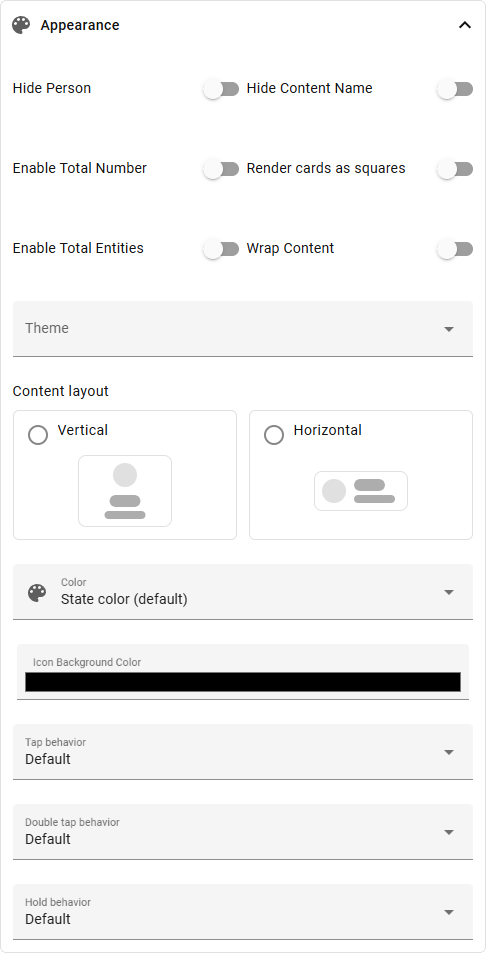
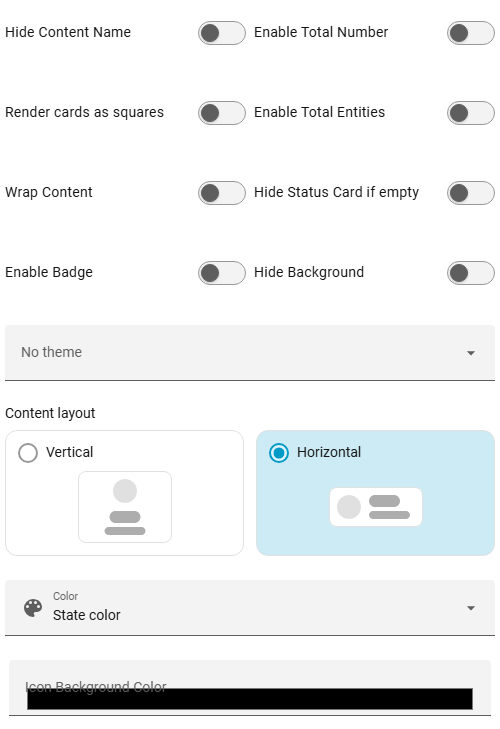
update docs

diff --git a/docs/docs/customization/entities.md b/docs/docs/customization/entities.md
@@ -1,0 +1,64 @@
+---
+title: Entities
+---
+
+# Entities
+
+Used to add single or multiple entities (extra entities) or to hide specific entities inside the status card.
+If you hide an entity using the 'Hide Entity' function, you will see some tabs where your entities are grouped, making it easier to find and hide them.
+
+- **Extra Entities:** - Choose the entities you want to add to status card from an entity picker
+- **Hide Entities:** - Choose which entity you want to hide by entity, ara or label
+
+<img src="https://raw.githubusercontent.com/xbourner/status-card/main/.github/img/entities.png" alt="Extra Entities Feature" width="50%">
+
+---
+
+## Editor Settings (per Extra Entity Customization)
+
+| Option | Description |
+|--------|-------------|
+| **Name** | Change display name |
+| **Icon** | Change icon |
+| **Color** | Change icon color |
+| **Invert State** | Invert state |
+| **State** | Force a specific state |
+| **State Content** | Change state content |
+| **Show Entity Picture** | Show entity picture |
+| **Activate State Color** | Enable color based on state |
+| **Tap / Hold / Double Tap** | Individual actions |
+| **Styles** | Custom CSS |
+
+### Editor Settings (per Extra Entity Customization)
+
+| Option | Description |
+|--------|-------------|
+| **Name** | Change display name |
+| **Icon** | Change icon |
+| **Color** | Change icon color |
+| **Invert State** | Invert state |
+| **State** | Force a specific state |
+| **State Content** | Change state content |
+| **Show Entity Picture** | Show entity picture |
+| **Activate State Color** | Enable color based on state |
+| **Tap / Hold / Double Tap** | Individual actions |
+| **Styles** | Custom CSS |
+
+<img src="https://raw.githubusercontent.com/xbourner/status-card/main/.github/img/entities-editor.png" alt="Extra Entities Editor" width="50%">
+
+---
+
+## YAML Example
+
+```yaml
+extra_entities:
+  - sun.sun
+hide_filter: entity
+hidden_entities:
+  - cover.test
+customization:
+  - type: sun.sun
+    state: "above_horizon"
+    show_entity_picture: true
+    state_content: "state"
+```

diff --git a/docs/docs/customization/global-appearance.md b/docs/docs/customization/global-appearance.md
@@ -7,15 +7,16 @@ title: Global Appearance
 Global settings that apply to all items.
 
 - **Hide Content Name:** Hide names from domains, device classes and persons
-- **List Display Mode:** Text list mode instead of controllers
+- **Enable Total Number:** Will show how many entities are turned on and how much in total you have. This wont change entities in Popup.
+- **Render cards as Square:** Square instead of round items
+- **Enable Total Entities:** Will show all entities no matter the state. This wilkl also change the Popup behaviour to show all entities.
+- **Wrap Content:** Multi-line mode instead of scrolling/swiping
+- **Hide Card If Empty:** Hide card completely when no entities are present
+- **Hide Background:** Hide background/border
 - **Theme:** HA theme for the card
-- **Wrap Content:** Multi-line mode instead of scrolling
-- **Square:** Square instead of round items
-- **No Background:** Hide background/border
-- **No Scroll:** Wrap mode instead of scrolling
-- **Hide Card If Empty:** Hide card when no entities are present
 - **Color:** Global icon color for all items
 - **Background Color:** Global background color (RGB/RGBA)
+
 
 <img src="https://raw.githubusercontent.com/xbourner/status-card/main/.github/img/appearance.png" alt="Global Appearance" width="35%">
 
@@ -28,20 +29,21 @@ Determines the orientation of items in the card. Default layout is vertical.
 
 <img src="https://raw.githubusercontent.com/xbourner/status-card/main/.github/img/content-layout.png" alt="Content Layout Feature" width="50%">
 
-
 ---
 
 ## YAML Example
 
 ```yaml
 type: custom:status-card
-content_layout: horizontal|vertical
 hide_content_name: false
-list_mode: false
+show_total_number: true
 square: true
+show_total_entities: true
 no_scroll: true
-no_background: false
 hide_card_if_empty: false
+no_background: false
+theme: waves
+content_layout: horizontal|vertical
 color: green
 background_color:
   - 255

diff --git a/docs/docs/customization/global-actions.md b/docs/docs/customization/global-actions.md
@@ -4,7 +4,7 @@ title: Global Actions
 
 # Global Actions
 
-Actions that apply to all domains and device classes (can be overridden per item).
+Actions that apply to all domains and device classes (can be overridden per item). Default is more info for persons and the custom popup for all other items.
 
 - **tap\_action:** Action on tap (default: more-info)
 - **hold\_action:** Action on hold (default: more-info)
@@ -16,7 +16,7 @@ Actions that apply to all domains and device classes (can be overridden per item
 
 ## Supported Actions
 
-`more-info`, `toggle`, `navigate`, `url`, `perform-action`, `none`
+`default`, `more-info`, `toggle`, `navigate`, `url`, `perform-action`, `none`
 
 ---
 